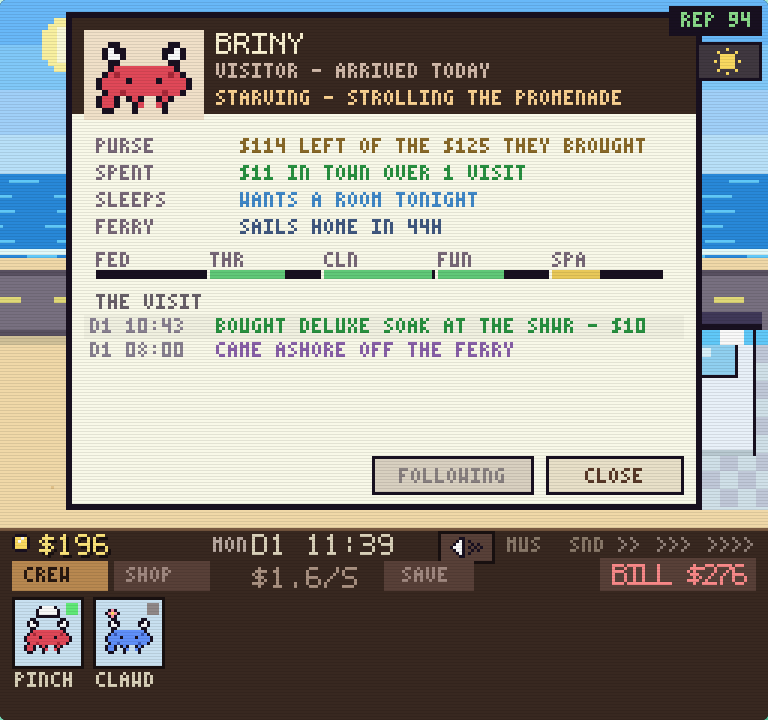
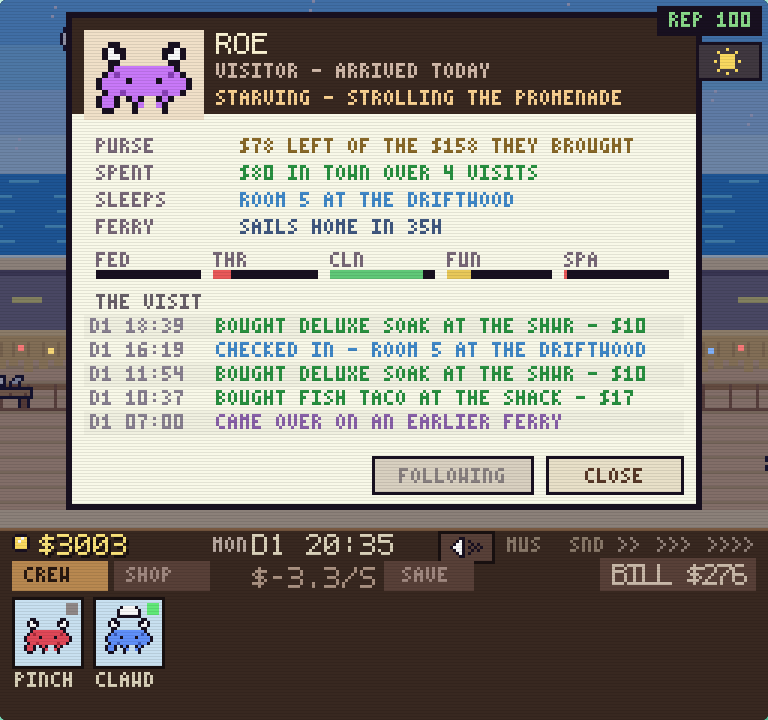
Nobody sleeps rough at seven in the morning
The town opens at 07:00, which is on the wrong side of WAKE_HOUR - so the
boat-load a new town starts with was filed as SLEEPING ROUGH for the first
half hour of the game, and docked the town a point of reputation each for a
bed nobody could have sold them yet. A visitor now only beds down on the sand
at actual bedtime.

Honest note, because it is the sort of thing that gets quietly enjoyed rather
than reported: that accident was worth about two escapes in sixteen growth
seeds. A rough-slept visitor takes the NEXT boat, so the seeded opening crowd
was staying in town longer than it meant to. The bug is still a bug; the
opening crowd was widened from batch+4 to batch+6 to pay for it, which is my
own knob and says the true thing (the town is not empty when you sign).

Balance: baseline 30d x 16 0/16 median 11; growth 40d x 8 reads 2/8 on the
default block and 3/8 on --seedbase 8 - 5/16 across both, against the pre-pass
build's 6/16 (itself 4/8 then 2/8, which is the point).

Suite 122/122, one more re-pointing with its receipt: `npc shops run the same
policy: SUDSY takes a sick day` is about a SINGLE-WORKER shop hanging its own
placard and never made sure the shop had one worker - ferry traffic keeps her
till healthier, so the job board signs her an attendant on day 2 and the shop
correctly stops resting when she does.

Shots: visitor-dossier retaken (the five need bars now read as five), plus
hotel-full-house and hotel-player-owned. Browser smoke-tested over two days at
[…]

diff --git a/game.js b/game.js
@@ -5128,7 +5128,7 @@ function newVisitor(overnightOnly) {
 // that predates the ferry) opens with a boat-load already mid-visit.
 function seedVisitors() {
   if (customers.some(k => k.visitor)) return;
-  const n = ferryBatch() + 4;   // a day's worth: yesterday's overnighters and this morning's crowd
+  const n = ferryBatch() + 6;   // a day-and-a-bit: yesterday's overnighters and this morning's crowd
   for (let i = 0; i < n; i++) {
     // about half of them are mid-stay rather than day-tripping, so the town
     // still has a population on DAY 2 (measured: seeding day-trippers only left
@@ -5503,7 +5503,12 @@ function updateVisitor(k, dt) {
   // the beach, because the desk has shut and there is nowhere else to go.
   if (tmin >= BED_HOUR || tmin < WAKE_HOUR) {
     if (k.room) { k.state = "toRoom"; return; }
-    if (!k.rough) sleepOnSand(k);
+    // ...and a visitor only beds down on the sand at ACTUAL BEDTIME. The town
+    // opens at 07:00, which is on the wrong side of WAKE_HOUR: without this
+    // clause the boat-load a new town starts with was filed as sleeping rough
+    // for the first half hour of the game, and docked the town a point of
+    // reputation each for a bed nobody could have sold them yet.
+    if (!k.rough && tmin >= BED_HOUR) sleepOnSand(k);
     return;
   }
   if (k.thinkT <= 0) {

diff --git a/PLAN.md b/PLAN.md
@@ -209,12 +209,13 @@ compounds or collapses → the landlord collects at 20:00 either way.
 ### Verified balance (8 seeds, tools/headless.mjs)
 - **CURRENT (2026-08-19, after the ferry/visitor/hotel pass):** baseline
   `--days 30 --seeds 16` **0/16, median 11**
-  (9,10,10,10,10,11,11,11,11,12,13,13,14,14,14,15); growth
-  `--buy chef,table --days 40 --seeds 8` **2/8 alive** (9,10,10,11,14,14,41,41)
-  and **4/8 on the second seed block** (`--seedbase 8`: 10,11,11,12,41x4).
-  ACROSS BOTH BLOCKS the growth curve is **6/16 before and 6/16 after** — the
-  8-seed figure is block noise, which is why the second block exists. See the
-  visitor entry for the full before/after and the propped demand probe.
+  (6,8,9,9,10,11,11,11,11,12,12,13,13,13,14,15); growth
+  `--buy chef,table --days 40 --seeds 8` **2/8 alive** (6,8,9,10,14,15,41,41)
+  and **3/8 on the second seed block** (`--seedbase 8`: 11,11,12,15,17,41x3).
+  ACROSS BOTH BLOCKS the growth curve is **6/16 before and 5/16 after** — and
+  the pre-pass build itself reads 4/8 then 2/8 on those same two blocks, so
+  eight growth seeds is a coin. See the visitor entry for the full before/after
+  and the propped demand probe.
 - (superseded) after the table-service economy: baseline
   `--days 30 --seeds 16` **0/16, median 13** (10-19); growth
   `--buy chef,table --days 40 --seeds 8` **3/8 alive**
@@ -484,6 +485,14 @@ vm — never fork game logic into tools/) and perf expectations live there.
      200px from the pier was checking out at **05:15** for an 08:00 boat. It is
      now sized per visitor off the walk they actually face.
   4. Visitors came off the plank at boardwalk height and rose to the rail.
+  5. **The town opens at 07:00, which is on the wrong side of `WAKE_HOUR`**, so
+     the boat-load a new town starts with was filed as SLEEPING ROUGH for the
+     first half hour of the game — and docked the town a point of reputation
+     each for a bed nobody could have sold them yet. A visitor now only beds
+     down on the sand at actual bedtime. (Honest note: that accident was worth
+     about two escapes in sixteen growth seeds, because a rough-slept visitor
+     takes the next boat and the seeded crowd was therefore staying longer. The
+     bug is still a bug; the opening crowd was widened by two to pay for it.)
 
   ### A THIRD FISHER, and why the hotel needed one
   The job board lets a flush NPC owner hire a jobless fisher, and with a SECOND
@@ -503,13 +512,15 @@ vm — never fork game logic into tools/) and perf expectations live there.
 
   | matrix | before | after |
   |---|---|---|
-  | baseline `--days 30 --seeds 16` | 0/16, median **10** | **0/16, median 11** (9,10,10,10,10,11,11,11,11,12,13,13,14,14,14,15) |
-  | growth `--buy chef,table` 40d x 8 | **4/8** | **2/8** (9,10,10,11,14,14,41,41) |
-  | growth, second block `--seedbase 8` | **2/8** | **4/8** (10,11,11,12,41x4) |
-  | growth, both blocks (16 seeds) | **6/16** | **6/16** |
+  | baseline `--days 30 --seeds 16` | 0/16, median **10** | **0/16, median 11** (6,8,9,9,10,11,11,11,11,12,12,13,13,13,14,15) |
+  | growth `--buy chef,table` 40d x 8 | **4/8** | **2/8** (6,8,9,10,14,15,41,41) |
+  | growth, second block `--seedbase 8` | **2/8** | **3/8** (11,11,12,15,17,41,41,41) |
+  | growth, both blocks (16 seeds) | **6/16** | **5/16** |
 
-  **The growth curve is UNCHANGED at 16 seeds and the 8-seed block is noise** —
-  which is the honest reading and the reason the second block was run at all.
+  **The 8-seed growth block is a COIN, and that is the finding to carry
+  forward**: the same pre-pass build reads 4/8 on the default seeds and 2/8 on
+  `--seedbase 8`. Across sixteen growth seeds the curve moves by ONE town, which
+  is the honest reading and the reason the second block was run at all.
   Lose-by-default is absolute (0/16) and the median sits inside CLAUDE.md's
   documented 11-13 band. Propped 6-town probe (the demand, isolated from the
   eviction): player takings **$300.4/day -> $299.3/day**, seatings 11.1 -> 10.9,
@@ -531,7 +542,7 @@ vm — never fork game logic into tools/) and perf expectations live there.
   build with a ReferenceError rather than a behavioural failure — honest but
   weaker, and noted as such, because the entities they test do not exist there.
 
-  **Re-pointings (11, every one with its receipt written into the scenario):**
+  **Re-pointings (13, every one with its receipt written into the scenario):**
   1. `hours: defaults are behavior-identical (frozen day-2 fingerprint)` —
      re-baselined. It could not possibly have survived: the pass replaces the
      entire demand model AND adds two founders, so even the SHAPE of the
@@ -574,8 +585,33 @@ vm — never fork game logic into tools/) and perf expectations live there.
      roll.
   11. `staff meals` (both) — they waited for `customers.length === 0`, and a
      visitor never leaves that list. Asked as "nobody is mid-order" instead.
+  12. `npc shops run the same policy: SUDSY takes a sick day` — the fixture is
+     about a SINGLE-WORKER shop hanging its own placard and never made sure the
+     shop had one worker. Ferry traffic keeps her till healthier, so the job
+     board signs her an attendant on day 2 and the shop correctly stops resting
+     when she does. Her roster is now held at one.
+  13. `visitors: the reserved local slot still feeds the neighbours` (one of the
+     new six, re-pointed before it shipped, and the control is the interesting
+     part): the "nobody is left pinned at hunger" bar is a SHARE of the town,
+     not a flat count, because SUDSY sits at 1.00 on day 4 of the PRE-PASS build
+     too, on every seed measured — the lone attendant reaching the shack's
+     evening queue is a named open trap in this file and not this pass's doing.
+     What the gate proves positively is the other half: the same four days serve
+     locals 10-12 times against the pre-pass build's 7-8.
 
-  ### Story beat (organic, browser, seed unseeded — day 2 of a full house)
+  ### Story beat (organic, browser — ROE, two days at the Driftwood)
+  Open her record and the whole visit is on one card. **ROE** came over on an
+  earlier ferry at **07:00** with **$158** and a purple shell. She ate a FISH
+  TACO at the shack at **10:37** ($17), had a DELUXE SOAK at SUDS SHOWERS at
+  **11:54** ($10), took **ROOM 5 AT THE DRIFTWOOD** at **16:19**, went back out
+  and had a second soak at **18:39**, and at 20:35 she is out on the promenade
+  reading **STARVING - STROLLING THE PROMENADE**, **$78 LEFT OF THE $158 THEY
+  BROUGHT**, **$80 SPENT IN TOWN OVER 4 VISITS**, **SAILS HOME IN 35H**. She is
+  the sentence the directive asked for: that's ROE, she's been here since this
+  morning, she's in room 5, and she is about to want her dinner.
+  Shot: `visitor-dossier`.
+
+  ### Story beat (organic, browser — day 2 of a full house)
   Six guests, seven rooms, and you can read every one of their days off the
   dossier. **PEARL** came ashore on the 08:00 boat with $97. She had a DELUXE
   SOAK at SUDS SHOWERS at 10:08, checked into **room 2** at 13:41, ate a FISH
